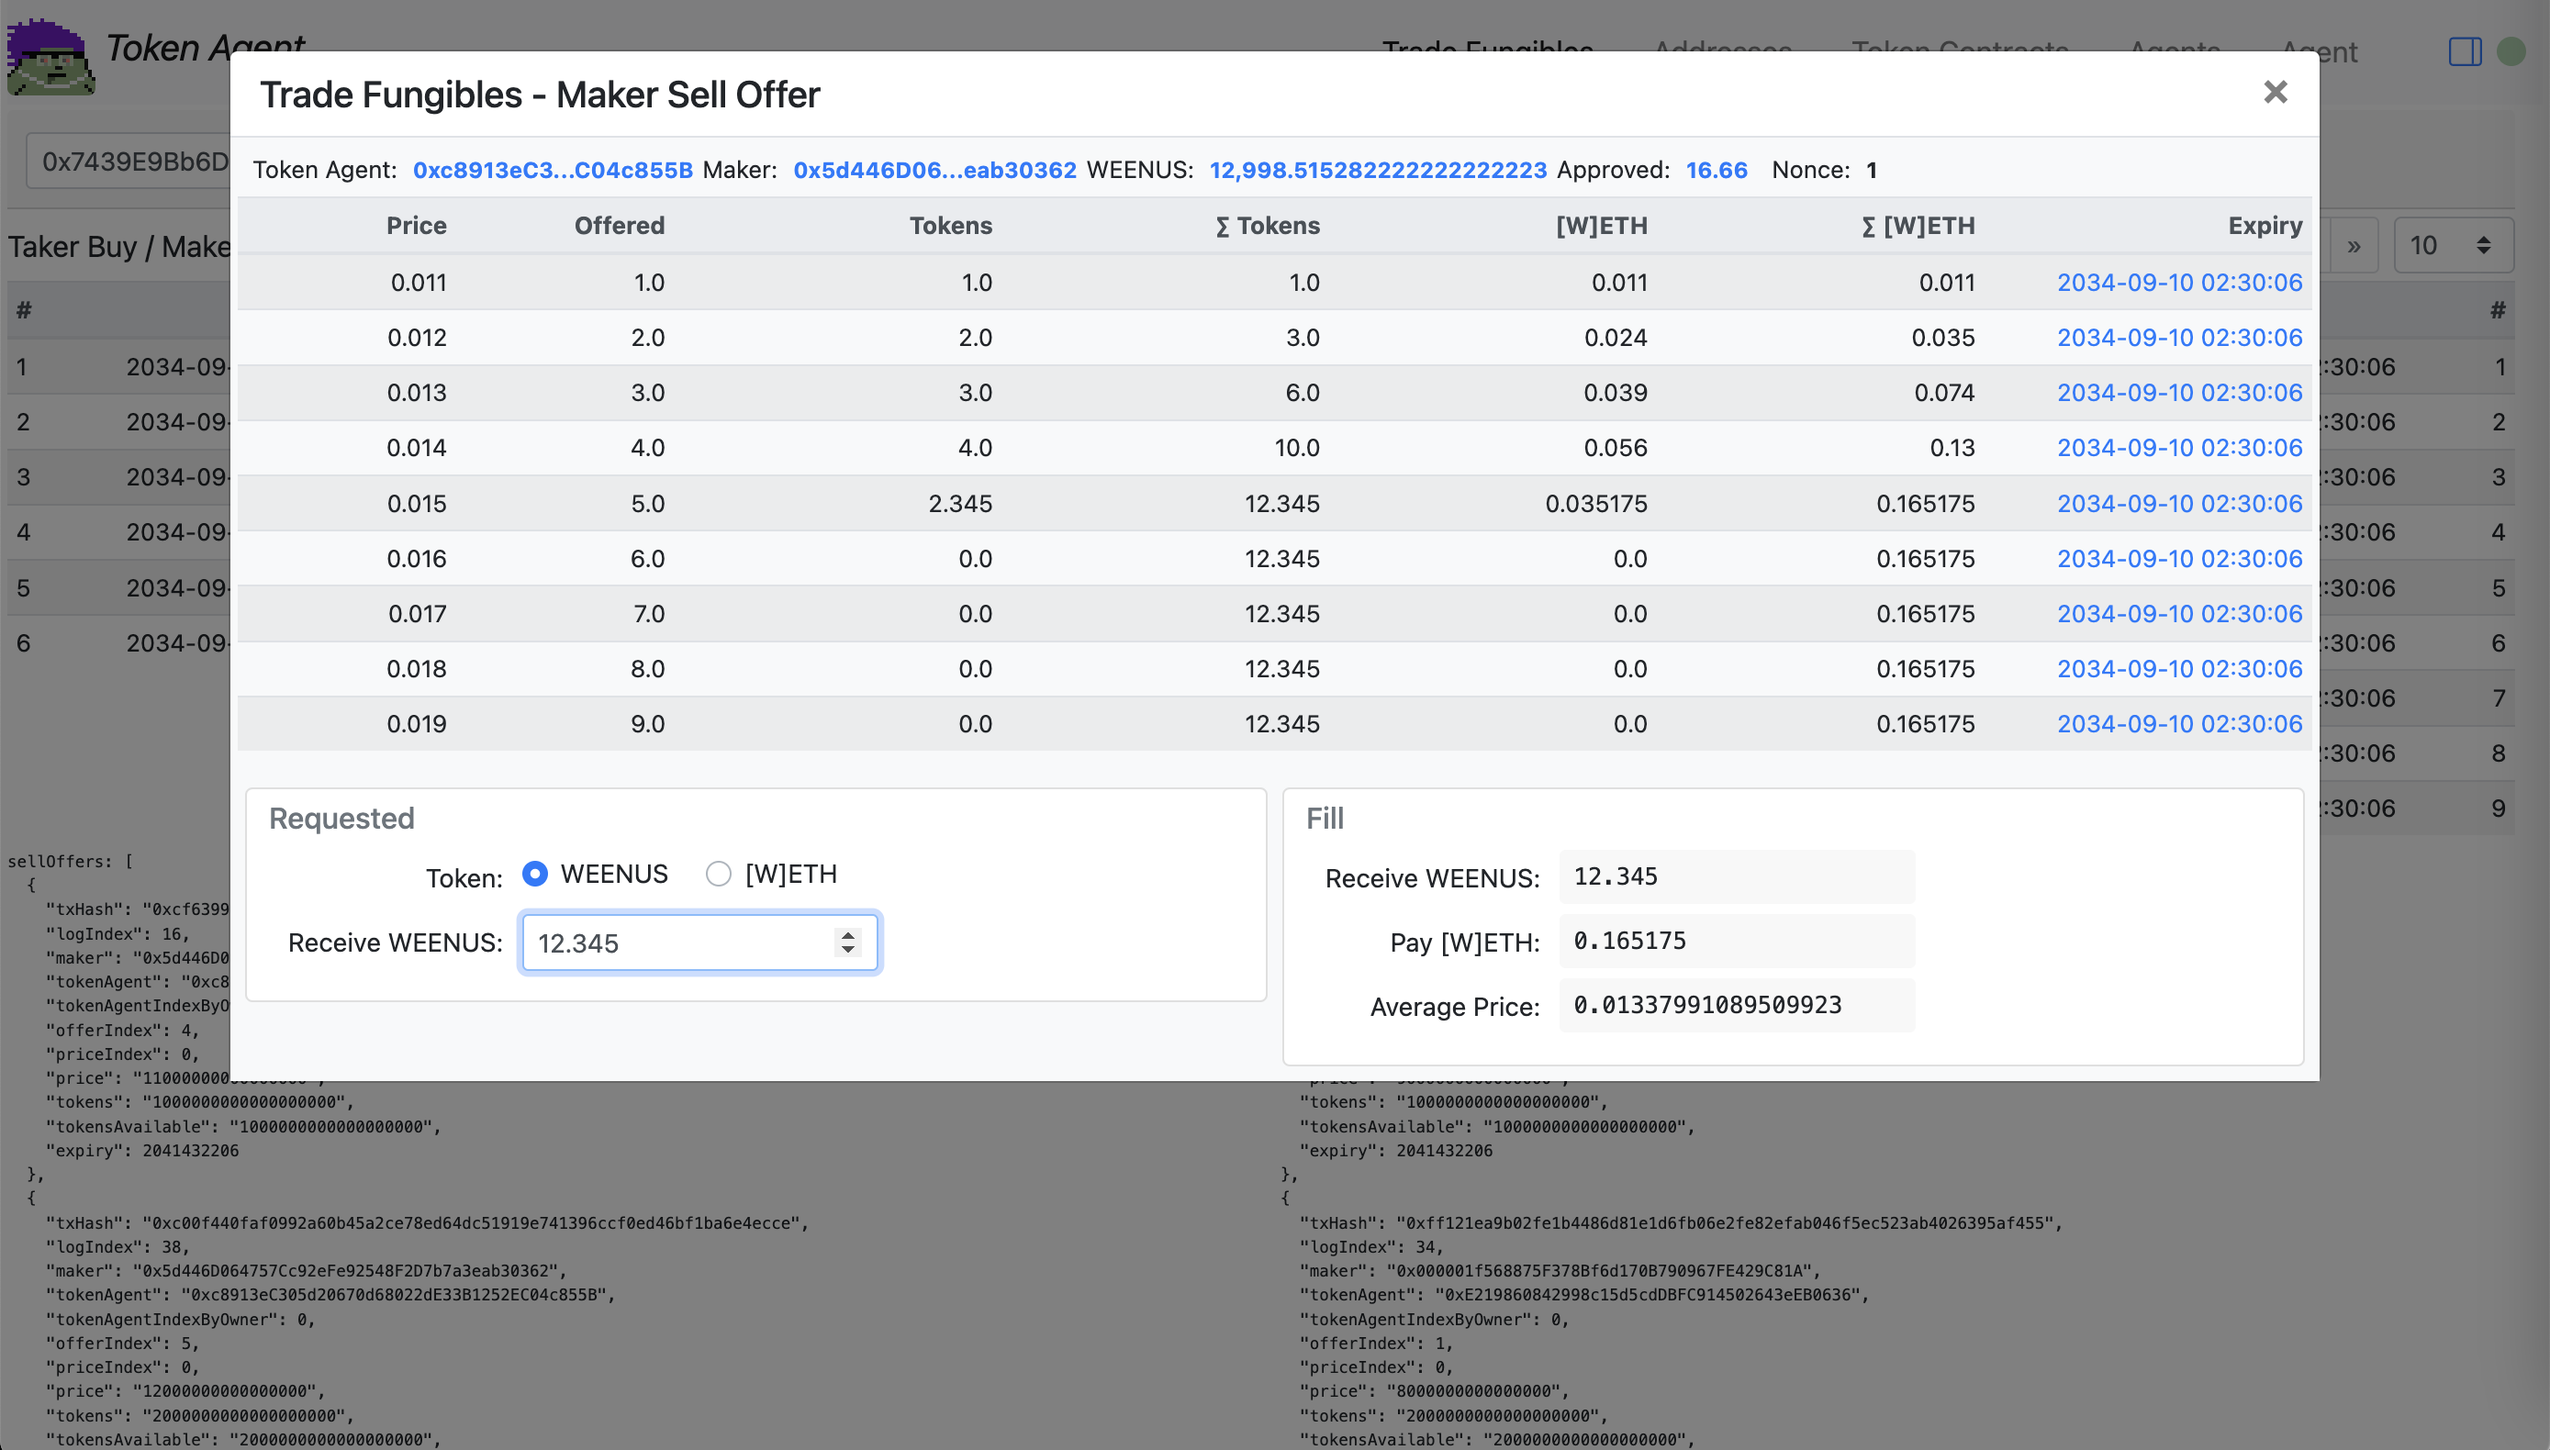
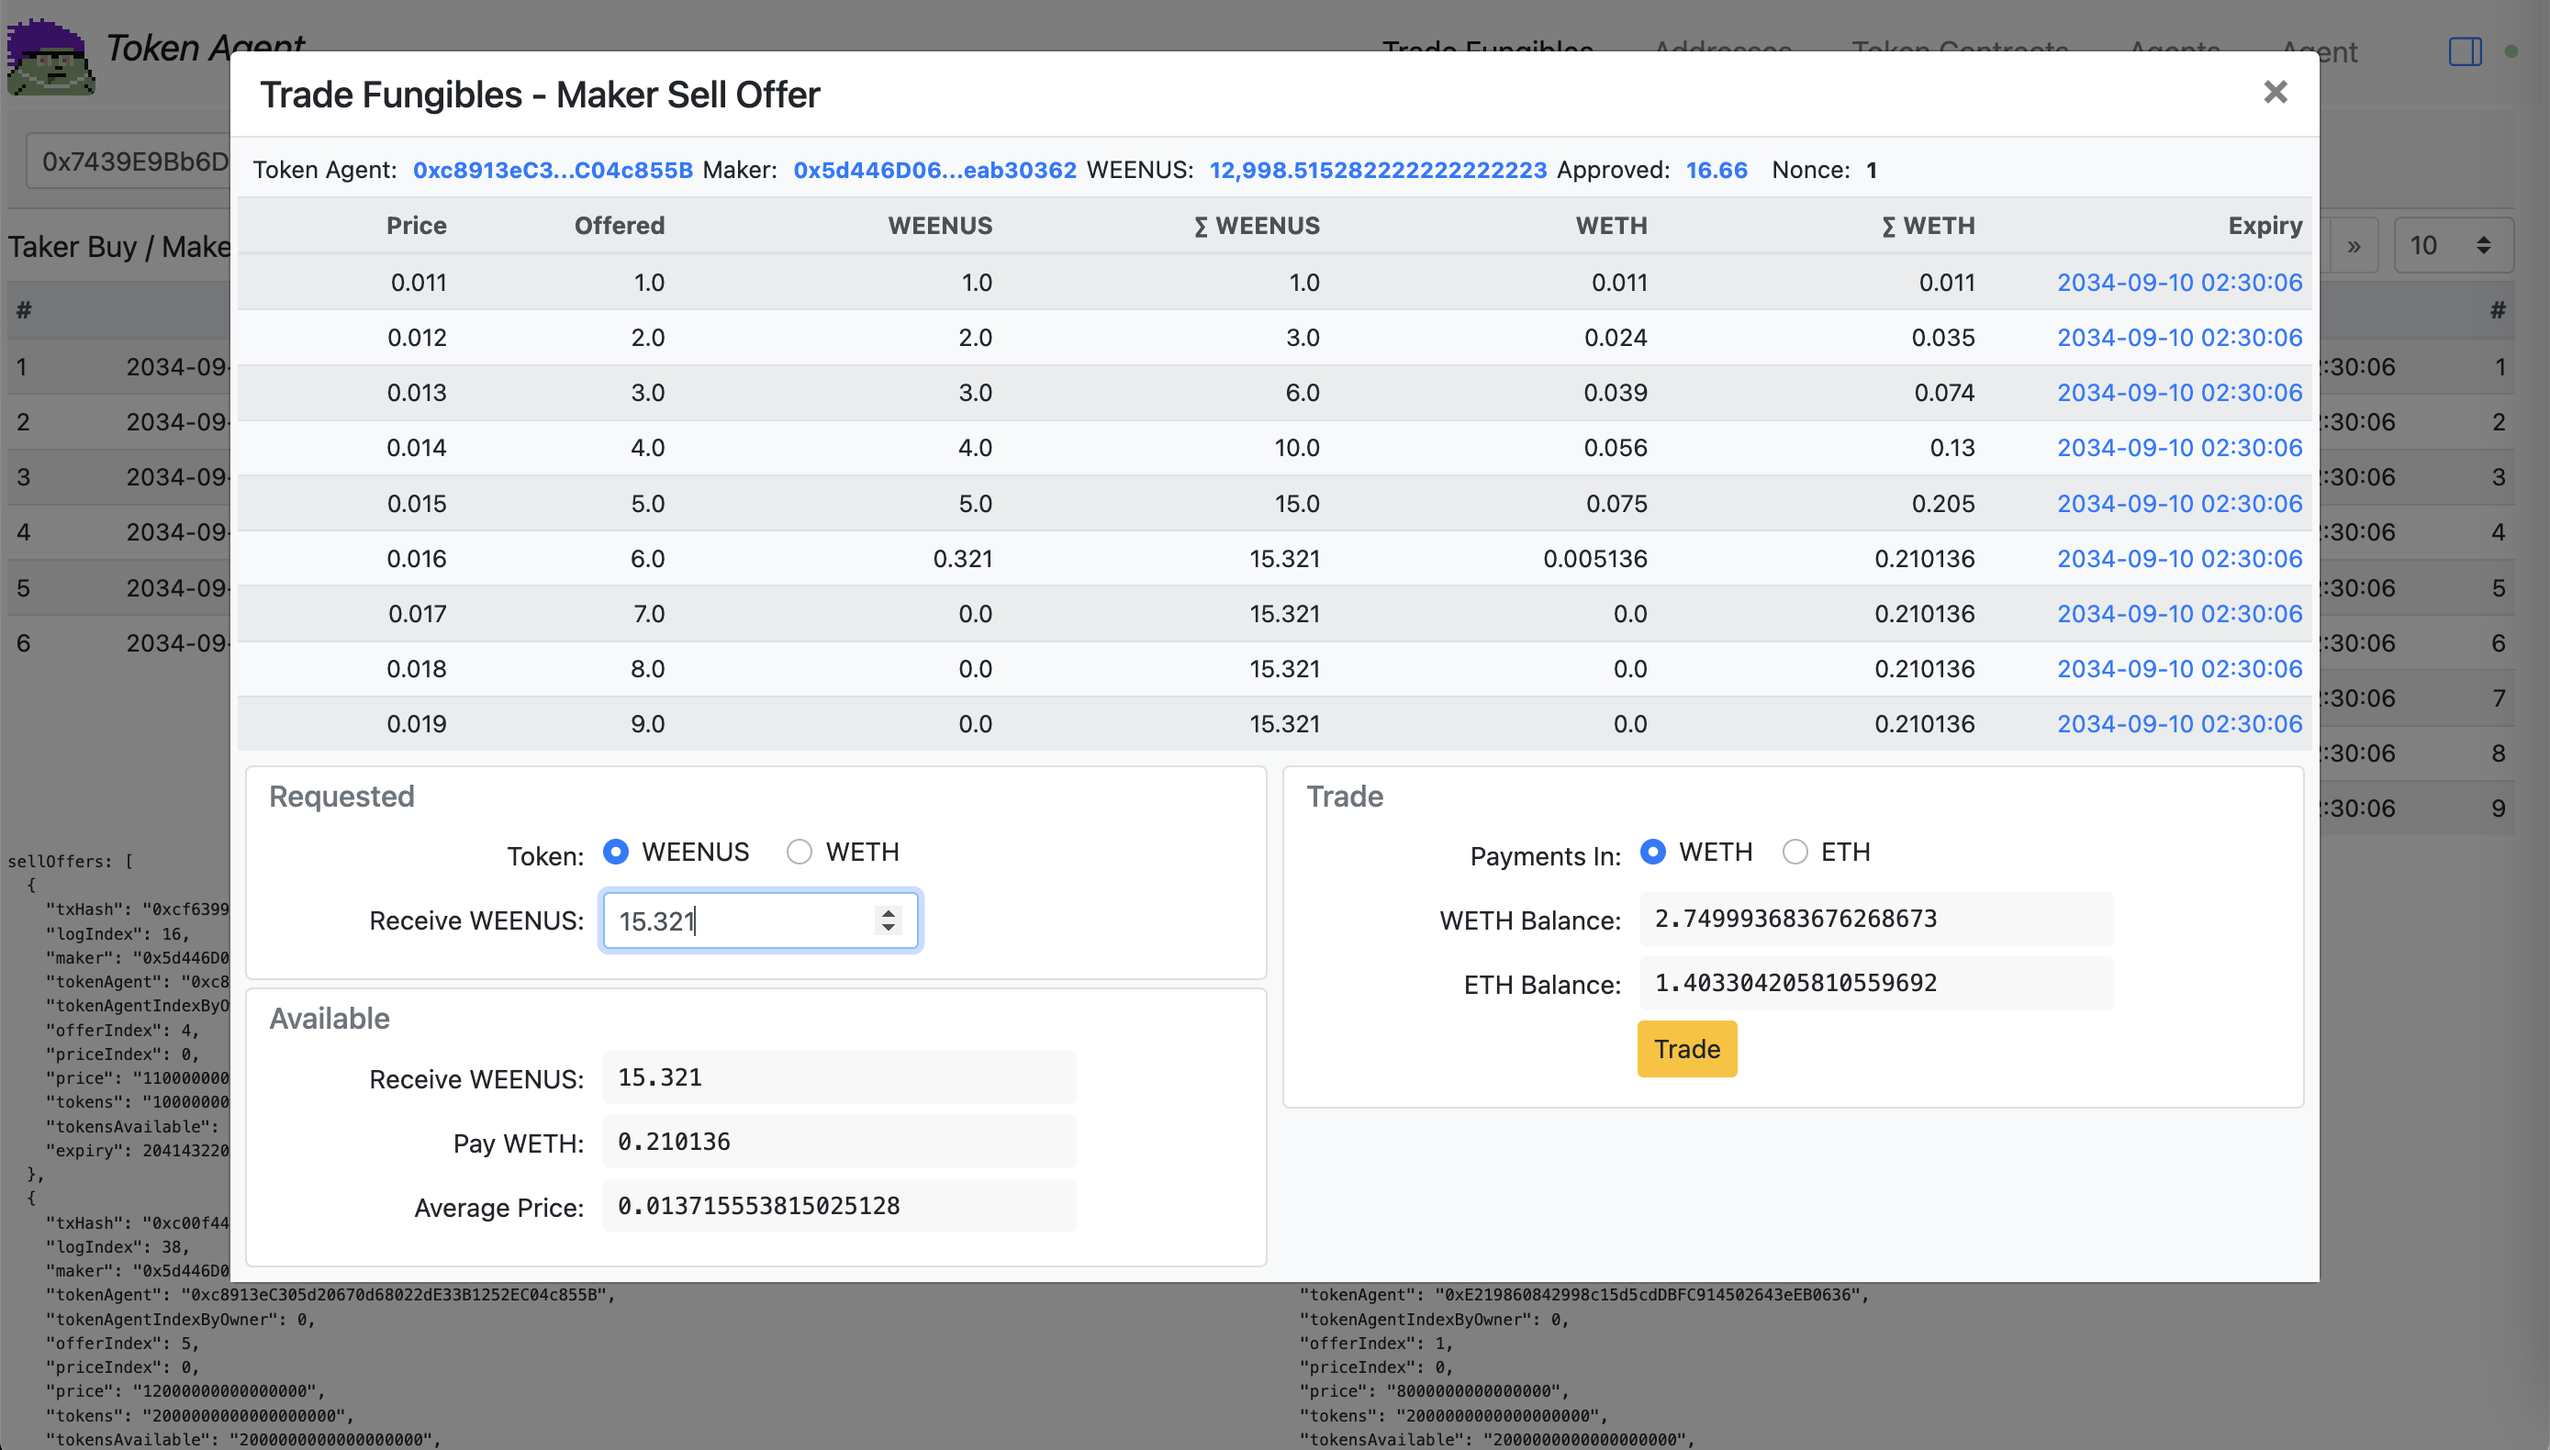
ui wip

diff --git a/docs/tradeFungibles.js b/docs/tradeFungibles.js
@@ -69,10 +69,16 @@ const TradeFungibles = {
                     {{ formatDecimals(data.item.offer, 18) }}
                   </font>
                 </template>
+                <template #head(tokens)="data">
+                  {{ settings.symbol }}
+                </template>
                 <template #cell(tokens)="data">
                   <font size="-1">
                     {{ formatDecimals(data.item.tokens, 18) }}
                   </font>
+                </template>
+                <template #head(totalTokens)="data">
+                  {{ '∑ ' + settings.symbol }}
                 </template>
                 <template #cell(totalTokens)="data">
                   <font size="-1">
@@ -145,6 +151,9 @@ const TradeFungibles = {
                     </b-form-group>
                     <b-form-group label="ETH Balance:" label-for="modalselloffer-ethbalance" label-size="sm" label-cols-sm="4" label-align-sm="right" class="mx-0 my-1 p-0">
                       <b-form-input size="sm" plaintext id="modalselloffer-ethbalance" :value="formatDecimals(balance, 18)" class="pl-2 w-75"></b-form-input>
+                    </b-form-group>
+                    <b-form-group label="" label-size="sm" label-cols-sm="4" label-align-sm="right" class="mx-0 my-1 p-0">
+                      <b-button size="sm" :disabled="!sellOffer.filledTokens" @click="trade" variant="warning">Trade</b-button>
                     </b-form-group>
                   </b-card-text>
                 </b-card>
